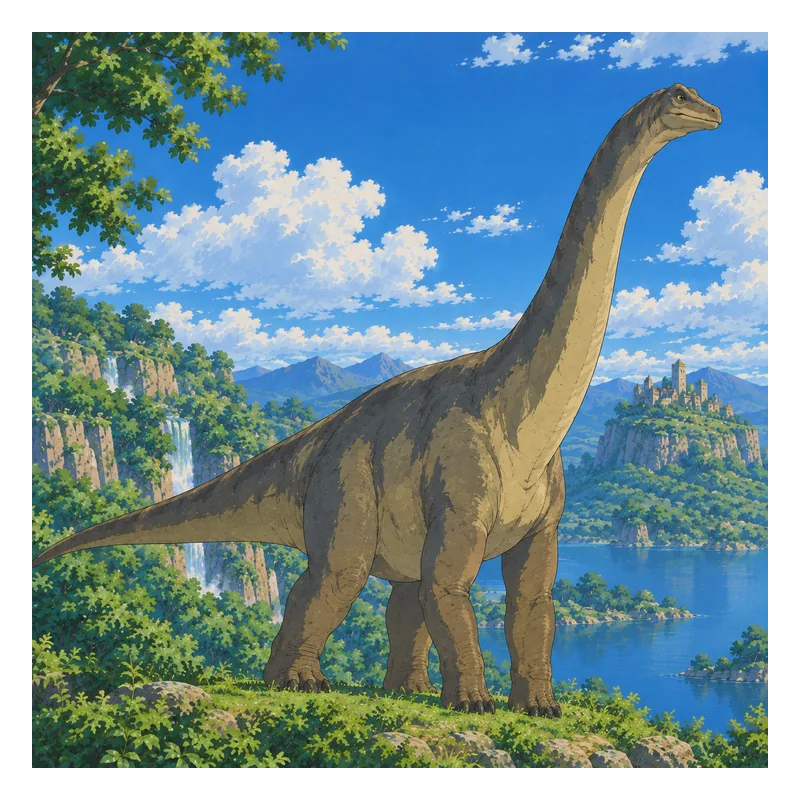
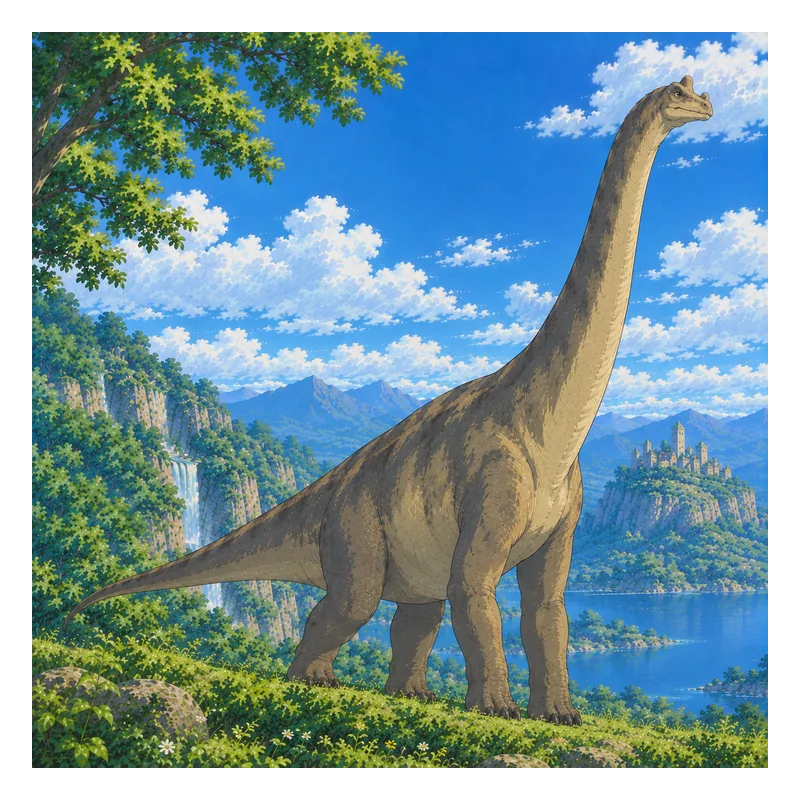
Ghibli: Brontosaurus, and a replaced Brachiosaurus
Six of ten. Both checked to face right — the Brontosaurus walks toward
the right edge, the new Brachiosaurus keeps its neck rising to the
right — so nothing mirrored. 🎨 stays beta until the other four are in.

diff --git a/apps/dino/art/ghibli/README.md b/apps/dino/art/ghibli/README.md
@@ -10,7 +10,7 @@ tool's `MIRROR` set as `ghibli/<code>`.
 These are **scenes, not cut-outs**: the animal in a painted landscape, sky
 and all, which is the idiom of the style. The tool cannot key a painted
 background and does not try; the card is the whole picture, letterboxed in
-the square. It also makes them heavier — 85–125 KB each against 14–30 for the
+the square. It also makes them heavier — 85–140 KB each against 14–30 for the
 transparent restorations.
 
 Until every animal has one, the style stays a beta option in 👁 — visible
@@ -21,7 +21,8 @@ in development, absent in production — so a child never meets a blank card.
 | `tyrannosaurus.png` | supplied 2026-09-25; prompt not recorded. Square. Roaring on a hilltop over a lake, jaws to the right | generated with ChatGPT |
 | `pterodactyl.png` | supplied 2026-09-25, replaced the same day with a square version; prompt not recorded. A Pteranodon in flight over a valley, beak to the right | generated with ChatGPT |
 | `stegosaurus.png` | supplied 2026-09-25; prompt not recorded. Square. Walking a hillside above a lake, head to the right | generated with ChatGPT |
-| `brachiosaurus.png` | supplied 2026-09-25; prompt not recorded. Square. Standing on a cliff edge above a lake, neck up and to the right | generated with ChatGPT |
+| `brachiosaurus.png` | supplied 2026-09-25, replaced the same day; prompt not recorded. Square. Standing on a cliff edge above a lake, neck up and to the right | generated with ChatGPT |
+| `brontosaurus.png` | supplied 2026-09-25; prompt not recorded. Square. Walking a meadow above a lake, head to the right, tail trailing left | generated with ChatGPT |
 | `gallimimus.png` | supplied 2026-09-25; prompt not recorded. Square. Running across a flowered slope, head to the right | generated with ChatGPT |
 
 On licence: images generated with ChatGPT carry no third-party attribution

diff --git a/CHANGELOG.md b/CHANGELOG.md
@@ -67,9 +67,10 @@ In this version so far:
     ten SVGs and ten WebPs side by side, and a third set was coming. It is
     `public/picture/` now, one folder per source: `silhouette/` for the
     PhyloPic chips, `totaldino/` for the Commons restorations, and `ghibli/`
-    for a set of Ghibli-style scenes generated with ChatGPT — five of ten
-    so far: Pteranodon, Tyrannosaurus, Stegosaurus, Brachiosaurus and
-    Gallimimus — and a **beta** option in 👁 until every animal has one, since a style with a gap in it would put a blank card in front of a
+    for a set of Ghibli-style scenes generated with ChatGPT — six of ten so
+    far: Pteranodon, Tyrannosaurus, Stegosaurus, Brachiosaurus, Gallimimus
+    and Brontosaurus — and a **beta** option in 👁 until every animal has
+    one, since a style with a gap in it would put a blank card in front of a
     child. Scenes rather than cut-outs: the tool cannot key a painted sky and
     does not try, so the card is the whole picture, letterboxed. `art/`
     mirrors it, one source folder per style with its own README, and
